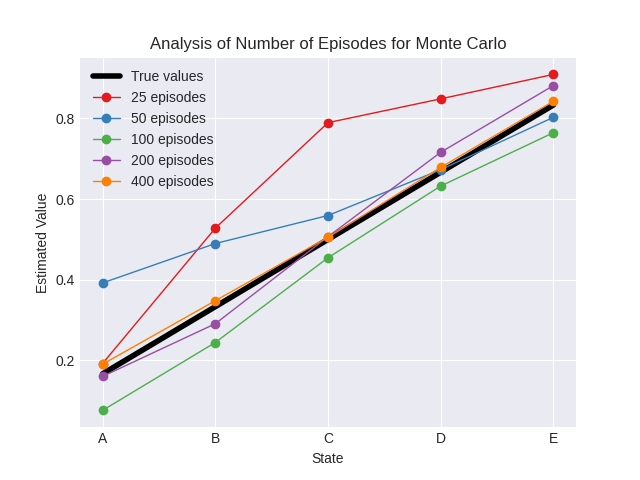
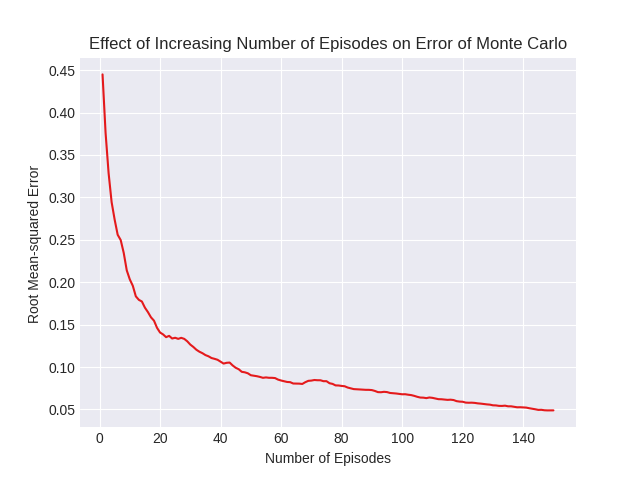
Add files via upload

diff --git a/MDPprojectAnalysis.py b/MDPprojectAnalysis.py
@@ -6,6 +6,10 @@ import matplotlib.pyplot as plt
 import matplotlib.patches as mpatches
 import numpy as np
 
+'''
+This file contains the functions that compute mean squared error and generate the graphs.
+'''
+
 def compareMCwithTD(mdp, initial, episodes, runs):
     true = [1/6, 2/6, 3/6, 4/6, 5/6]
     MCerrors = [[0,0,0,0,0] for i in range(episodes)]
@@ -50,38 +54,38 @@ def compareMCwithTD(mdp, initial, episodes, runs):
     plt.show()
     
 
-def episodeComp(mdp, initial, stepSize, method):
-    if method == MC.MonteCarlo:
+def episodeComp(mdp, initial, episodes, stepSize, method, runs):
+    if method == MC.MonteCarloevery:
         nameMethod = 'Monte Carlo'
     else:
         nameMethod = 'TD(0)'
     true = [1/6, 2/6, 3/6, 4/6, 5/6]
-    estimates = []
-    numEpisodes = [10, 25, 50,75]
-    letters = ['A', 'B', 'C', 'D', 'E']
-    for i in numEpisodes:
-        estimates.append(method(mdp, initial, i, stepSize))
-
+    errors = [[0,0,0,0,0] for i in range(episodes)]
+    xVals = [i+1 for i in range(episodes)]
+    for i in range(runs):
+        vals = method(mdp, initial.copy(), episodes, stepSize)
+        for j in range(episodes):
+            for k in range(len(vals[0])):
+                errors[j][k] += ((vals[j][k]-true[k])**2)
+    errs = []
+    for i in range(episodes):
+        totalOfErrs = 0
+        for state in range(len(vals[0])):
+            totalOfErrs += np.sqrt(errors[i][state]/runs)
+        errs.append(totalOfErrs/len(vals[0]))
     plt.style.use('seaborn-darkgrid')
     palette = plt.get_cmap('Set1')
     color = 0
-    plt.plot(letters, true, 'k-', label = 'True values', linewidth = 4)
-    for x in numEpisodes:
-        label0 = str(x) + ' episodes'
-        plt.plot(letters, estimates[color], 'o-', label = label0, color=palette(color), linewidth=1)
-        color += 1
-    plt.ylabel('Estimated Value')
-    plt.xlabel('State')
-    plt.legend()
-    plt.title('Analysis of Number of Episodes for ' + nameMethod)
+    plt.plot(xVals, errs, '-', color=palette(color))
+    plt.ylabel('Root Mean-squared Error ')
+    plt.xlabel('Number of Episodes')
+    plt.title('Effect of Increasing Number of Episodes on Error of '+nameMethod)
     plt.show()
     
 def stepSizeComp(mdp, initial, method):
     true = [1/6, 2/6, 3/6, 4/6, 5/6]
-    estimates = []
     runs = 100
     stepSizes = np.arange(.005, .2, 0.005).tolist()
-    letters = ['A', 'B', 'C', 'D', 'E']
     numEpisodes = [25, 50, 100, 250, 500, 1000]
         
     xVals = stepSizes
@@ -112,11 +116,90 @@ def stepSizeComp(mdp, initial, method):
     plt.title('Analysis of Step Size for TD(0)')
     plt.legend()
     plt.show()
+    
+def numEpisodesVsStepSize(mdp, initial):
+    episodes = 1000
+    stepSizes = np.arange(.05, .2, 0.005).tolist()
+
+    true = [1/6, 2/6, 3/6, 4/6, 5/6]
+    runs = 100
+        
+    xVals = stepSizes
+    epps = []
+    
+    plt.style.use('seaborn-darkgrid')
+    palette = plt.get_cmap('Set1')
+    color = 0
+    
+    for stepSize in stepSizes:
+        minError = 1
+        optimalEpisode = 1
+        color += 1
+        TDerrors = [[0,0,0,0,0] for i in range(episodes)]
+        for i in range(runs):
+            TDvals = TD.TD0every(mdp, initial.copy(), episodes, stepSize)
+            for j in range(episodes):
+                for k in range(len(TDvals[0])):
+                    TDerrors[j][k] += ((TDvals[j][k]-true[k])**2)
+        for i in range(episodes):
+            totalOfTDErrs = 0
+            for state in range(len(TDvals[0])):
+                totalOfTDErrs += np.sqrt(TDerrors[i][state]/runs)
+            if totalOfTDErrs/len(TDvals[0]) < minError:
+                minError = totalOfTDErrs/len(TDvals[0])
+                optimalEpisode = i
+        epps.append(optimalEpisode)
+        
+    plt.plot(xVals, epps, '-', color=palette(color))
+    plt.ylabel('Number of Episodes to Minimize Error')
+    plt.xlabel('Step Size')
+    plt.title('Step Size vs Number of Episodes, TD(0)')
+    plt.show()
+    
+def minErrorVsStepSize(mdp, initial):
+    episodes = 1000
+    stepSizes = np.arange(.05, .2, 0.005).tolist()
+
+    true = [1/6, 2/6, 3/6, 4/6, 5/6]
+    runs = 100
+        
+    xVals = stepSizes
+    minErrs = []
+    
+    plt.style.use('seaborn-darkgrid')
+    palette = plt.get_cmap('Set1')
+    color = 0
+    
+    for stepSize in stepSizes:
+        minError = 1
+        optimalEpisode = 1
+        color += 1
+        TDerrors = [[0,0,0,0,0] for i in range(episodes)]
+        for i in range(runs):
+            TDvals = TD.TD0every(mdp, initial.copy(), episodes, stepSize)
+            for j in range(episodes):
+                for k in range(len(TDvals[0])):
+                    TDerrors[j][k] += ((TDvals[j][k]-true[k])**2)
+        for i in range(episodes):
+            totalOfTDErrs = 0
+            for state in range(len(TDvals[0])):
+                totalOfTDErrs += np.sqrt(TDerrors[i][state]/runs)
+            if totalOfTDErrs/len(TDvals[0]) < minError:
+                minError = totalOfTDErrs/len(TDvals[0])
+                optimalEpisode = i
+        minErrs.append(minError)
+        
+    plt.plot(xVals, minErrs, '-', color=palette(color))
+    plt.ylabel('Minimal Error')
+    plt.xlabel('Step Size')
+    plt.title('Step Size vs Minimal Error, TD(0)')
+    plt.show()
           
 def main():
     mdp = MDP.ex6dot2
     initial = MDP.initialize(mdp)
+    minErrorVsStepSize(mdp, initial)
     #stepSizeComp(mdp, initial, TD.TD0)
-    #episodeComp(mdp, initial, .1, TD.TD0)
-    compareMCwithTD(mdp, initial.copy(), 350, 100)
+    #episodeComp(mdp, initial, 150, .1, MC.MonteCarloevery, 100)
+    #compareMCwithTD(mdp, initial.copy(), 350, 100)
 main()
